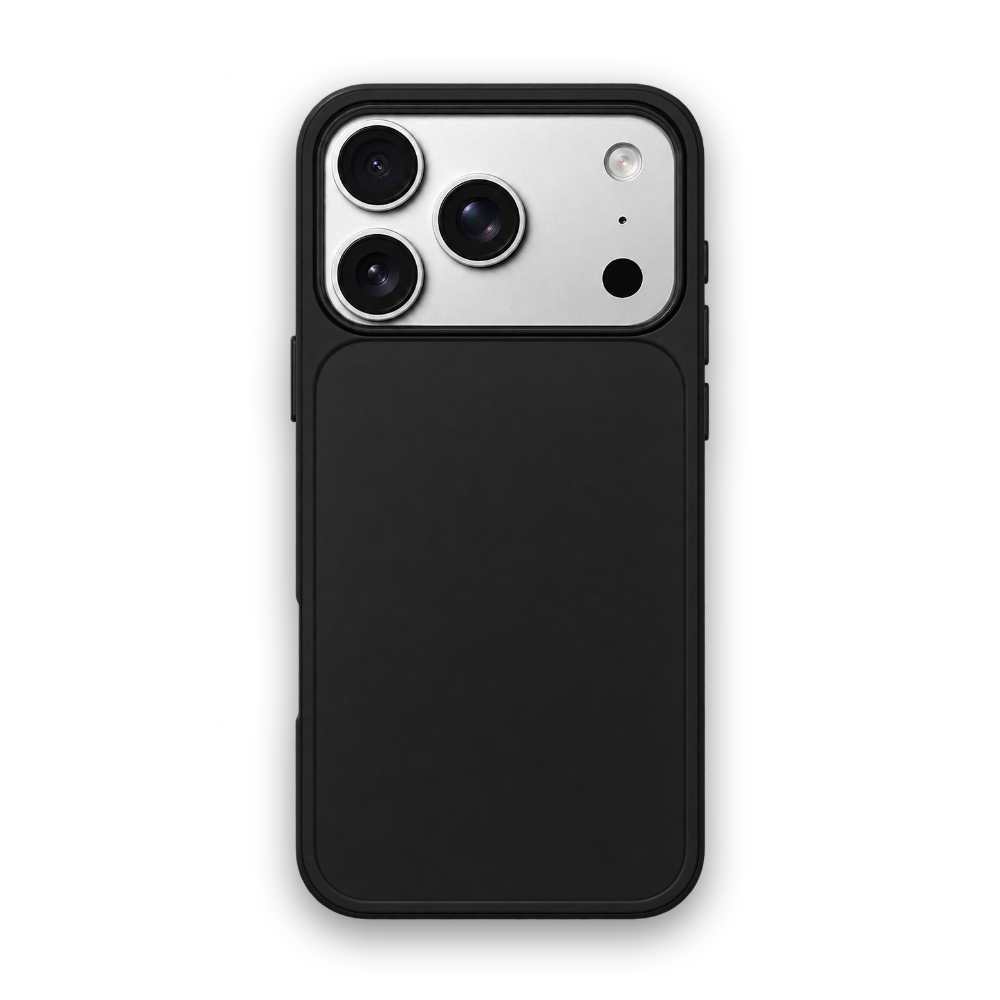
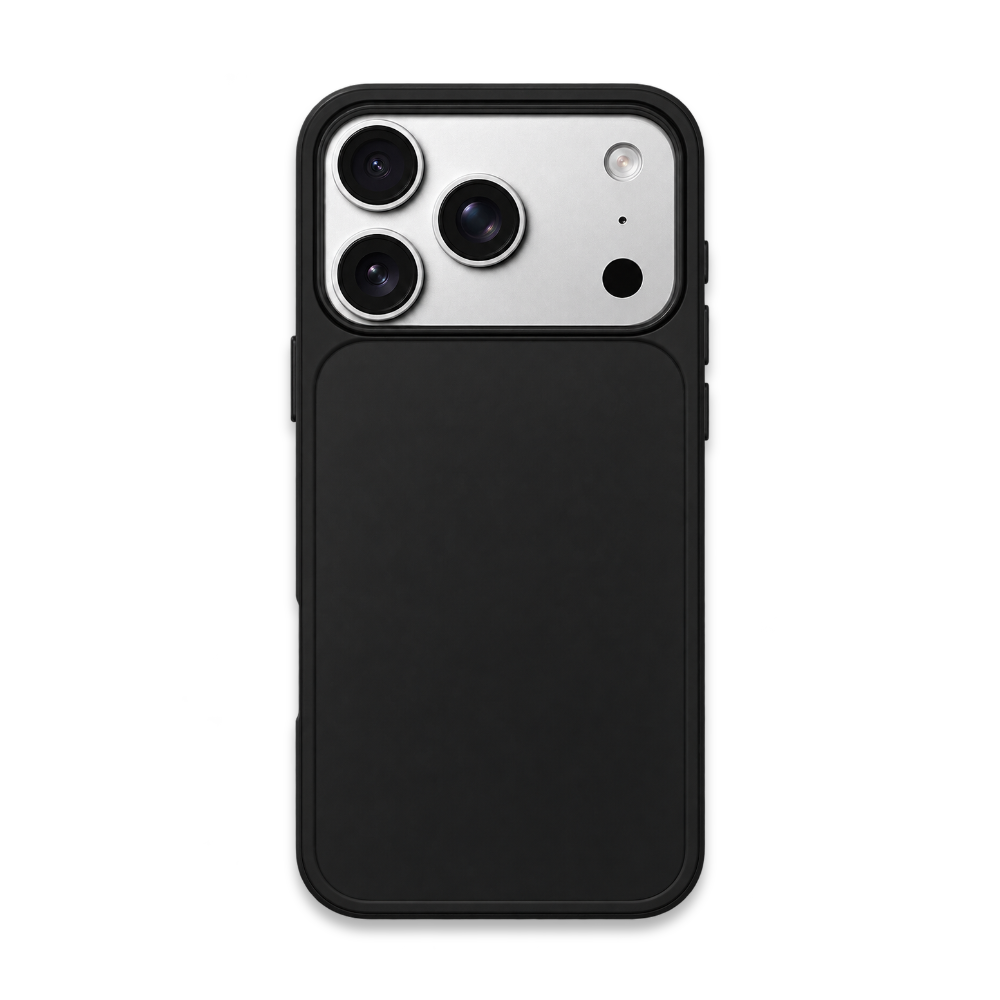
白底图x作为白底产品图背景；碳纤维默认缩放97%/上下4%；透视效果图累计下移21px；更新碳纤维底图

Changed region(s): [[0.248, 0.124, 0.744, 0.961]]

diff --git a/index.html b/index.html
@@ -72,9 +72,9 @@
   <script src="jszip.min.js"></script>
   <script>
     const $ = id => document.getElementById(id), assets = {};
-    const defaults = {art:'参考图2.png',base:'素材底图.png',mask:'素材图片蒙版.png',noise:'素材图片噪声.png',shadow:'高反差.png',bg:'背景图.png',side:'素材底图2.png',detailBg:'详情底图.png',innerShadow:'内阴影.png',ddBg:'多多背景图.png',ddDetail:'多多详情.png',wmT1:'t1.png',wmT2:'t2.png'};
+    const defaults = {art:'参考图2.png',base:'素材底图.png',mask:'素材图片蒙版.png',noise:'素材图片噪声.png',shadow:'高反差.png',bg:'背景图.png',side:'素材底图2.png',detailBg:'详情底图.png',innerShadow:'内阴影.png',ddBg:'多多背景图.png',ddDetail:'多多详情.png',wmT1:'t1.png',wmT2:'t2.png',whiteBg:'白底图x.png'};
     let mold='clear'; const moldSets={ clear:{base:'素材底图.png',mask:'素材图片蒙版.png',side:'素材底图2.png',shadow:'高反差.png',detailBg:'详情底图.png'}, carbon:{base:'碳纤维模具/素材底图.png',mask:'碳纤维模具/素材图片蒙版.png',side:'碳纤维模具/素材底图2.png',shadow:'碳纤维模具/阴影.png',detailBg:'碳纤维模具/txq.png',perspBg:'碳纤维模具/透视底.png',perspMaskL:'碳纤维模具/透视蒙版左.png',perspMaskR:'碳纤维模具/透视蒙版右.png',perspShadow:'碳纤维模具/透视阴影.png'} };
-    async function setMold(m){ mold=m; $('moldClear').classList.toggle('on',m==='clear'); $('moldCarbon').classList.toggle('on',m==='carbon'); $('status').textContent='正在加载'+(m==='carbon'?'碳纤维黑磨砂':'透明壳')+'模具素材…'; const keys=['base','mask','side','shadow','detailBg']; if(m==='carbon') keys.push('perspBg','perspMaskL','perspMaskR','perspShadow'); await Promise.all(keys.map(async k=>{ assets[k]=await load(moldSets[m][k]+'?v=32'); })); drawAll(); }
+    async function setMold(m){ mold=m; $('moldClear').classList.toggle('on',m==='clear'); $('moldCarbon').classList.toggle('on',m==='carbon'); if(m==='carbon'){ $('scale').value=97; $('scaleText').textContent='97%'; $('offset').value=4; $('offsetText').textContent='4%'; } else { $('scale').value=100; $('scaleText').textContent='100%'; $('offset').value=0; $('offsetText').textContent='0%'; } $('status').textContent='正在加载'+(m==='carbon'?'碳纤维黑磨砂':'透明壳')+'模具素材…'; const keys=['base','mask','side','shadow','detailBg']; if(m==='carbon') keys.push('perspBg','perspMaskL','perspMaskR','perspShadow'); await Promise.all(keys.map(async k=>{ assets[k]=await load(moldSets[m][k]+'?v=33'); })); drawAll(); }
     const load = src => new Promise((ok,no)=>{ const i=new Image(); i.onload=()=>ok(i); i.onerror=()=>no(new Error('素材无法加载：'+src)); i.src=src; });
     const fit = (ctx,img,x,y,w,h,cover=true) => { const r=cover?Math.max(w/img.width,h/img.height):Math.min(w/img.width,h/img.height); const nw=img.width*r,nh=img.height*r; ctx.drawImage(img,x+(w-nw)/2,y+(h-nh)/2,nw,nh); };
     let version='taobao'; const drawBg=(x,w,h)=>{ const img=version==='duoduo'?assets.ddBg:assets.bg, bs=+$('bgScale').value/100, r=Math.max(w/img.width,h/img.height)*bs, nw=img.width*r, nh=img.height*r; x.drawImage(img,(w-nw)/2,(h-nh)/2,nw,nh); };
@@ -166,12 +166,12 @@
     function drawQuadPersp(ctx,img,q){ const W=img.width,H=img.height,Hm=homographyMat([[0,0],[W,0],[W,H],[0,H]],q),Hi=inv3(Hm); if(!Hi) return; const xs=q.map(p=>p[0]),ys=q.map(p=>p[1]); const x0=Math.max(0,Math.floor(Math.min(...xs))),x1=Math.min(ctx.canvas.width,Math.ceil(Math.max(...xs))),y0=Math.max(0,Math.floor(Math.min(...ys))),y1=Math.min(ctx.canvas.height,Math.ceil(Math.max(...ys))); const sctx=img.getContext('2d',{willReadFrequently:true}); const sd=sctx.getImageData(0,0,W,H).data; const imd=ctx.getImageData(x0,y0,x1-x0,y1-y0); const dd=imd.data; for(let Y=y0;Y<y1;Y++){ const rw=(Y-y0)*(x1-x0); for(let X=x0;X<x1;X++){ const den=Hi[2][0]*X+Hi[2][1]*Y+Hi[2][2]; const u=(Hi[0][0]*X+Hi[0][1]*Y+Hi[0][2])/den, v=(Hi[1][0]*X+Hi[1][1]*Y+Hi[1][2])/den; if(u<0||u>=W||v<0||v>=H) continue; const u0=Math.min(Math.floor(u),W-2),v0=Math.min(Math.floor(v),H-2),fu=u-u0,fv=v-v0; const i00=(v0*W+u0)*4,i10=i00+4,i01=i00+W*4,i11=i01+4,o=(rw+X-x0)*4; for(let cc=0;cc<4;cc++){ dd[o+cc]=sd[i00+cc]*(1-fu)*(1-fv)+sd[i10+cc]*fu*(1-fv)+sd[i01+cc]*(1-fu)*fv+sd[i11+cc]*fu*fv; } } } ctx.putImageData(imd,x0,y0); }
     let perspLayerCache=null;
     function perspMaskOf(img,w,h){ const c=document.createElement('canvas');c.width=w;c.height=h;const x=c.getContext('2d',{willReadFrequently:true});x.drawImage(img,0,0,w,h); const p=x.getImageData(0,0,w,h); for(let i=0;i<p.data.length;i+=4){const l=(p.data[i]+p.data[i+1]+p.data[i+2])/3;p.data[i]=p.data[i+1]=p.data[i+2]=255;p.data[i+3]=l>128?255:0;} x.putImageData(p,0,0); return c; }
-    function drawPersp(){ const c=$('persp'), x=c.getContext('2d'); x.clearRect(0,0,c.width,c.height); if(mold!=='carbon'||!assets.perspBg){ x.fillStyle='#f1f3f6'; x.fillRect(0,0,c.width,c.height); x.fillStyle='#8a94a3'; x.font='18px "Microsoft YaHei"'; x.textAlign='center'; x.textBaseline='middle'; x.fillText('透视效果图仅碳纤维黑磨砂模具可用',c.width/2,c.height/2); return; } x.imageSmoothingEnabled=true; x.imageSmoothingQuality='high'; x.drawImage(assets.perspBg,0,0,c.width,c.height); if(!perspLayerCache||perspLayerCache.src!==assets.art.src){ const art=enhanceArt(assets.art); const LQ=[[9,73],[462,93],[644,926],[190,963]]; const RQ=[[522,353],[999,366],[753,1256],[273,1190]]; const lc=document.createElement('canvas');lc.width=c.width;lc.height=c.height;const lx=lc.getContext('2d'); perspQuad(lx,art,LQ); lx.globalCompositeOperation='destination-in'; lx.drawImage(perspMaskOf(assets.perspMaskL,c.width,c.height),0,0); lx.globalCompositeOperation='source-over'; const rc=document.createElement('canvas');rc.width=c.width;rc.height=c.height;const rx=rc.getContext('2d'); perspQuad(rx,art,RQ); rx.globalCompositeOperation='destination-in'; rx.drawImage(perspMaskOf(assets.perspMaskR,c.width,c.height),0,0); rx.globalCompositeOperation='source-over'; const layer=document.createElement('canvas');layer.width=c.width;layer.height=c.height;const l=layer.getContext('2d'); l.drawImage(lc,0,0); l.drawImage(rc,0,0); perspLayerCache={src:assets.art.src,layer}; } x.drawImage(perspLayerCache.layer,0,0); x.globalAlpha=0.15; x.drawImage(assets.perspShadow,0,0,c.width,c.height); x.globalAlpha=1; }
+    function drawPersp(){ const c=$('persp'), x=c.getContext('2d'); x.clearRect(0,0,c.width,c.height); if(mold!=='carbon'||!assets.perspBg){ x.fillStyle='#f1f3f6'; x.fillRect(0,0,c.width,c.height); x.fillStyle='#8a94a3'; x.font='18px "Microsoft YaHei"'; x.textAlign='center'; x.textBaseline='middle'; x.fillText('透视效果图仅碳纤维黑磨砂模具可用',c.width/2,c.height/2); return; } x.imageSmoothingEnabled=true; x.imageSmoothingQuality='high'; x.drawImage(assets.perspBg,0,0,c.width,c.height); if(!perspLayerCache||perspLayerCache.src!==assets.art.src){ const art=enhanceArt(assets.art); const LQ=[[9,94],[462,114],[644,947],[190,984]]; const RQ=[[522,374],[999,387],[753,1277],[273,1211]]; const lc=document.createElement('canvas');lc.width=c.width;lc.height=c.height;const lx=lc.getContext('2d'); perspQuad(lx,art,LQ); lx.globalCompositeOperation='destination-in'; lx.drawImage(perspMaskOf(assets.perspMaskL,c.width,c.height),0,0); lx.globalCompositeOperation='source-over'; const rc=document.createElement('canvas');rc.width=c.width;rc.height=c.height;const rx=rc.getContext('2d'); perspQuad(rx,art,RQ); rx.globalCompositeOperation='destination-in'; rx.drawImage(perspMaskOf(assets.perspMaskR,c.width,c.height),0,0); rx.globalCompositeOperation='source-over'; const layer=document.createElement('canvas');layer.width=c.width;layer.height=c.height;const l=layer.getContext('2d'); l.drawImage(lc,0,0); l.drawImage(rc,0,0); perspLayerCache={src:assets.art.src,layer}; } x.drawImage(perspLayerCache.layer,0,0); x.globalAlpha=0.15; x.drawImage(assets.perspShadow,0,0,c.width,c.height); x.globalAlpha=1; }
     function drawAll(){ if(Object.keys(assets).length<13)return; const dev=makeDevice(1000);
       // 真实效果图：保留壳体/贴图/光影渲染，但不铺背景，导出为透明底 PNG
       drawTo('mockup',(x,w,h)=>{paintScaled(x,w,h,()=>x.drawImage(dev,0,0,w,h))});
       // Full-size placement matches the supplied 2000px reference compositions.
-      drawTo('white',(x,w,h)=>{x.fillStyle='#fff';x.fillRect(0,0,w,h);paintScaled(x,w,h,()=>x.drawImage(dev,0,0,w,h))});
+      drawTo('white',(x,w,h)=>{x.drawImage(assets.whiteBg,0,0,w,h);paintScaled(x,w,h,()=>x.drawImage(dev,0,0,w,h))});
       drawTo('scene',(x,w,h)=>{drawBg(x,w,h);paintScaled(x,w,h,()=>x.drawImage(dev,0,0,w,h))});
       // 正侧组合图（参考图4 版式，1000px 画布）：左侧边条 + 右侧正面，等高并排。
       // 素材底图2.png 为 2000px，侧边壳体在源图 x464..612、y206..1830（其余透明）。
@@ -222,7 +222,7 @@ $('wmY').addEventListener('input',()=>{ let v=+$('wmY').value; if(Math.abs(v)<=4
     $('tb').onclick=()=>{version='taobao';$('tb').classList.add('on');$('dd').classList.remove('on');drawAll();};$('dd').onclick=()=>{version='duoduo';$('dd').classList.add('on');$('tb').classList.remove('on');drawAll();};$('reset').onclick=init;
     $('moldClear').onclick=()=>setMold('clear');$('moldCarbon').onclick=()=>setMold('carbon');
     $('usePin').onclick=()=>{ const u=$('pinUrl').value.trim(); if(!u){$('status').textContent='请先粘贴图片地址';return;} const img=new Image(); img.crossOrigin='anonymous'; img.onload=()=>{assets.art=img;drawAll();$('status').textContent='已应用图片';}; img.onerror=()=>{$('status').textContent='加载失败';}; img.src='https://images.weserv.nl/?url='+encodeURIComponent(u.replace(/^https?:\/\//,'')); }
-    async function init(){ mold='clear';$('moldClear').classList.add('on');$('moldCarbon').classList.remove('on'); try { $('status').textContent='正在载入默认素材…'; await Promise.all(Object.entries(defaults).map(async ([k,v])=>{ assets[k]=await load(v+'?v=32'); })); drawAll(); } catch(e) { $('status').textContent=e.message; } }
+    async function init(){ mold='clear';$('moldClear').classList.add('on');$('moldCarbon').classList.remove('on'); try { $('status').textContent='正在载入默认素材…'; await Promise.all(Object.entries(defaults).map(async ([k,v])=>{ assets[k]=await load(v+'?v=33'); })); drawAll(); } catch(e) { $('status').textContent=e.message; } }
     init();
   </script>
 </body></html>
